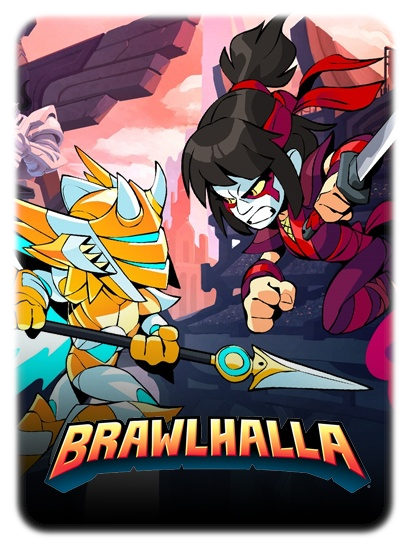
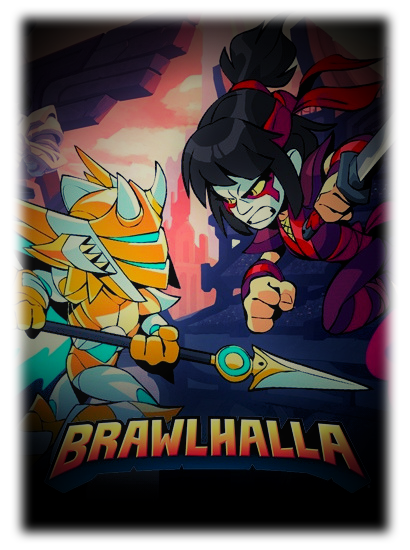
adjusted widths and changed background picture

diff --git a/client/src/App.css b/client/src/App.css
@@ -1,12 +1,19 @@
 :root {
+    --page-width: 1300px;
     background-color: #262626;
     color: white;
-    background-size: 1300px 1700px;
+    width: var(--page-width);
+    margin: 0 auto;
+    background-size: var(--page-width) 1700px;
     background-repeat: no-repeat;
     background-position-x: center;
     background-image: url("./background.png");
     background-color: black;
 }
+
+/* div.App {
+    width: 1300px;
+} */
 
 button {
     margin: 5px;

diff --git a/client/src/pages/ranks/LeaderboardRanks.js b/client/src/pages/ranks/LeaderboardRanks.js
@@ -21,10 +21,10 @@ export const LeaderboardRanks = () => {
     }, [data])
 
     if (isError) {
-        return <span>Error: {error.message}</span>
+        return <div className="error-message">Error: {error.message}</div>
     }
     if (isLoading) {
-        return <div>Loading...</div>
+        return <div className="loading-message">Loading...</div>
     }
 
     const nextPage = () => {

diff --git a/client/src/pages/ranks/LeaderboardRanks.css b/client/src/pages/ranks/LeaderboardRanks.css
@@ -40,3 +40,9 @@ table {
     border: 1px solid cyan;
     background: linear-gradient(0deg, rgba(38,38,38,1) 0%, rgba(48,9,121,0.89539565826330536) 42%, rgba(0,212,255,0.80940126050420167) 85%);
 }    
+
+.error-message, .loading-message {
+    min-width: var(--main-content-width);
+    text-align: center;
+    font-size: 40px;
+}
